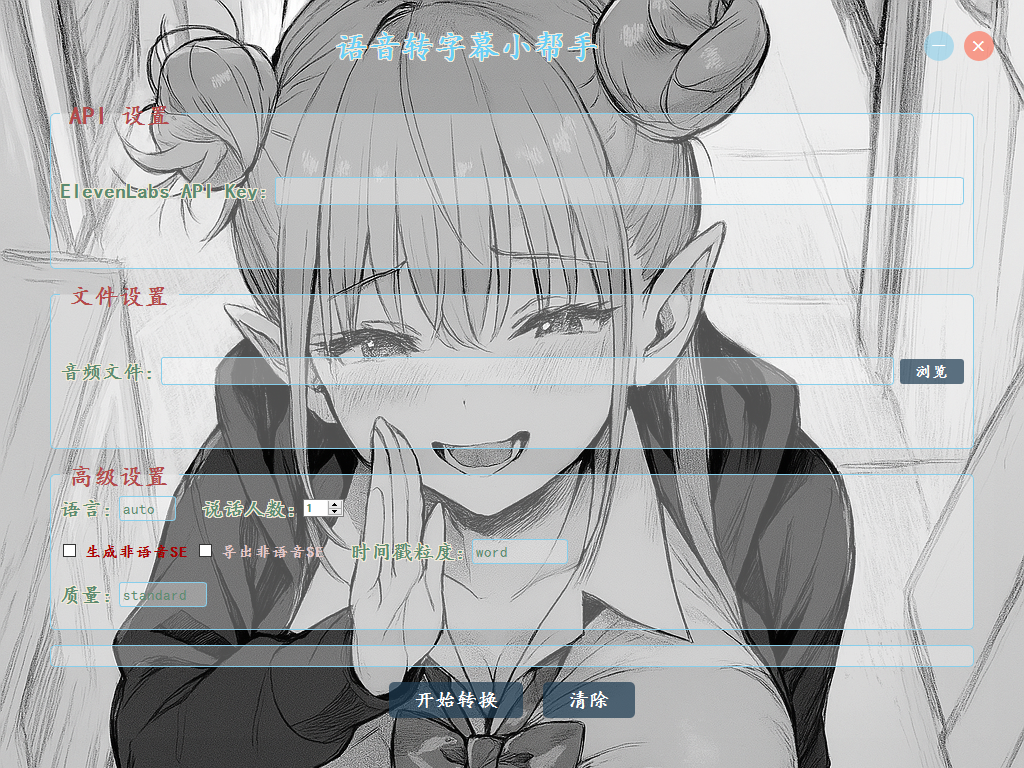
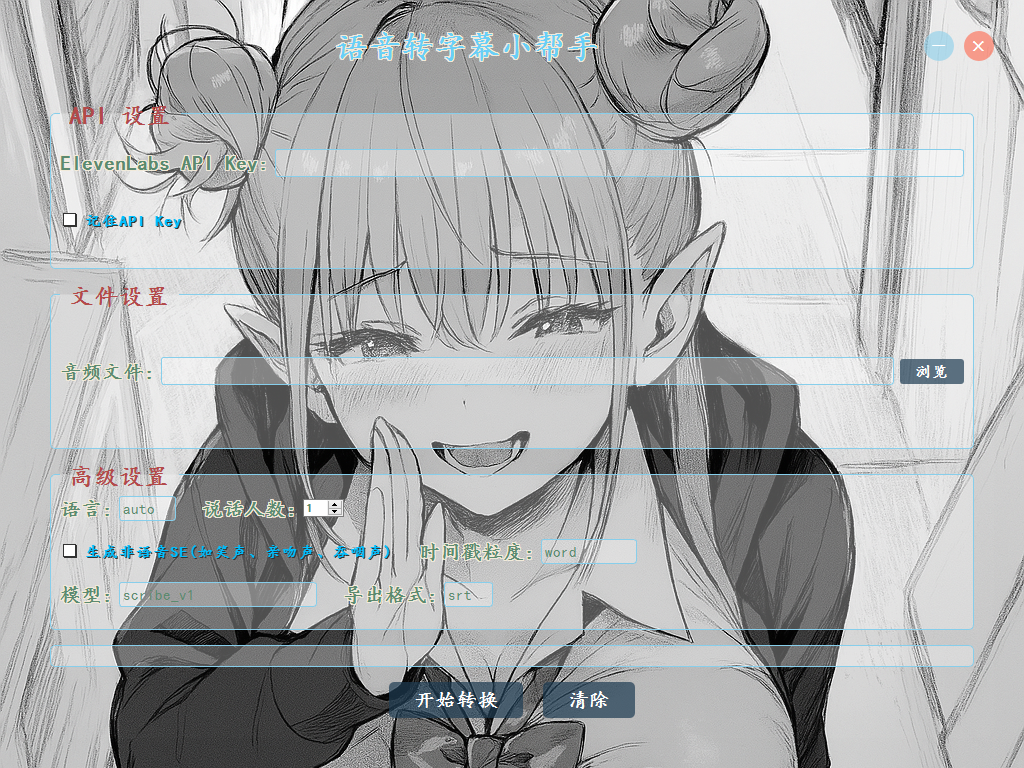
更新使用说明文件

diff --git a/src/main_optimized.py b/src/main_optimized.py
@@ -500,7 +500,7 @@ class SubtitleConverter(QMainWindow):
         timestamp_label.setFont(api_label_font)
         
         self.timestamp_combo = QComboBox()
-        self.timestamp_combo.addItems(["word", "character", "none"])
+        self.timestamp_combo.addItems(["word", "character"])
         self.timestamp_combo.setStyleSheet(self.lang_combo.styleSheet())
         
         row2.addWidget(self.tag_events)
@@ -730,7 +730,7 @@ class SubtitleConverter(QMainWindow):
                     # 准备基本参数
                     model_id = self.model_combo.currentText()
                     diarize = True
-                    timestamps_granularity = self.timestamp_combo.currentText() if self.timestamp_combo.currentText() != "none" else None
+                    timestamps_granularity = self.timestamp_combo.currentText()
                     num_speakers = self.speaker_spin.value()
                     tag_audio_events = self.tag_events.isChecked()
                     

diff --git a/README.md b/README.md
@@ -26,7 +26,7 @@
 1. 访问 [ElevenLabs官网](https://elevenlabs.io/)
 2. 注册账号并登录
 3. 在个人设置中找到API Key，并创建一个新的API Key
-(2025.4.9之后，官网重新制定了API价格，由免费转为付费，需按照个人需求订阅，比如我现在用的是5$的档，每个月12.5h)
+(2025.4.9之后，官网重新制定了API价格，由免费转为付费，需按照个人需求订阅，比如我现在用的是5$的档，每个月api可以用12.5h)
 
 ### 2. 运行发布的工具
 
@@ -76,17 +76,20 @@
 
 ### Q: 如何选择时间戳粒度？
 根据你的需求：
-- 选择"word"或"character"会生成带时间戳的SRT文件
-- 选择"none"会生成纯文本TXT文件
+- 选择"word"或"character"会生成带有相应精度的时间戳，一般情况下"word"就够用了，需要特别精细的话才需要选择"character"
+- 实际使用后，至少对于日语，官方其实没有实现word和character的精度区分，无论哪种时间戳，效果都差不多
+- 但考虑到可能有人会转录其他语言的音声，还是把这个选项加上了。
 
 ### Q: 为什么不支持批量处理？
-考虑过，但由于官方API不支持白嫖的免费用户的批量的请求，添加批处理功能也不会加快响应速度，遂放弃了。
+一开始考虑过，但由于官方API不支持白嫖的免费用户的批量的请求，添加批处理功能也不会加快响应速度，遂放弃了。
+
+但是，现在它已经全面收费了，所以没做就是我懒了，回头抽空搞一下吧。。。
 
 ## 注意事项
 
-1. 请确保您的API Key有效且有足够的配额（2025.4.9之后白嫖不了了，我现在用的是5$的档，每个月12.5h）
+1. 请确保您的API Key有效且有足够的配额（2025.4.9之后白嫖不了了，我现在用的是5$的档，每个月API能用12.5h）
 2. 长时间音频文件可能需要较长时间处理
-3. 多人对话识别准确度取决于音频质量
+3. 多人对话识别准确度取决于音频质量（有无SE差分的话还是用无SE吧）
 
 ## 技术支持
 
@@ -94,5 +97,5 @@
 
 ---
 
-**版本**: v0.1.1
-**最后更新**: 2025-04-02
+**版本**: v0.2.0
+**最后更新**: 2025-04-26

diff --git a/docs/usage_guide.md b/docs/usage_guide.md
@@ -1,7 +1,7 @@
 # 语音转字幕小帮手 - 使用指南
 
 ## 📌 基本介绍
-一款基于 ElevenLabs API 的音频转字幕工具，支持生成带时间轴的字幕文件（SRT）和纯文本（TXT/JSON）。
+一款基于 ElevenLabs API 的音频转字幕工具，支持生成带时间轴的字幕文件（SRT）和纯文本（TXT/JSON）。主要应用于日语同人音声识别场景。
 
 ## 🛠 安装步骤
 
@@ -32,25 +32,28 @@ packaging/build_advanced.bat
 | 多语言识别     | 支持中文、英文、日语等主流语言   |
 | 说话人分离     | 自动区分不同说话人（需设置人数） |
 | 非语音事件标记 | 识别背景音效/音乐等非语音内容    |
-| 三种输出格式   | SRT/TXT/JSON 一键导出            |
+| 三种输出格式   | SRT/TXT/JSON按需导出             |
 
 ## 🖥 界面操作指南
 1. **API 设置**  
    - 输入有效的 ElevenLabs API Key（格式： `sk_...`）
-
+   - 根据需要可以勾选记住API-KEY，程序第一次成功转录后会把它存储在本地，方便之后的使用。
+   
 2. **文件设置**  
    📂 支持格式：`.mp3`/`.wav`/`.ogg`/`.m4a`/`.flac`
 
 3. **高级设置**  
+   
    ```
-   ▸ 语言：auto（自动检测）或手动指定  
+   ▸ 语言：默认auto（自动检测）或手动指定  
    ▸ 说话人数：1-32人  
    ▸ 时间戳粒度：word/character/none  
-   ▸ 质量模式：standard/enhanced  
+   ▸ 生成非语音SE：默认不生成，需要自行勾选
+   ▸ 模型设定：scribe_v1/scribe_v1_experimental
    ```
-
+   
 4. **开始转换**  
-   ✅ 进度条显示实时转换进度  
+   ✅ 进度条显示当前转换进度  
    💾 结果自动保存到音频文件所在目录
 
 ## 📂 输出文件说明
@@ -72,6 +75,6 @@ packaging/build_advanced.bat
 - 网络连接异常
 
 ## 🚀 高级技巧
-- 对于长音频文件，建议选择`enhanced`质量模式
+- 大多数情况下，建议选择"auto"+"scribe_v1"即可
 - 多人对话场景请准确设置说话人数
-- 需要保留背景音效时勾选"导出非语音SE"
+- 需要保留背景音效时勾选"生成非语音SE"
